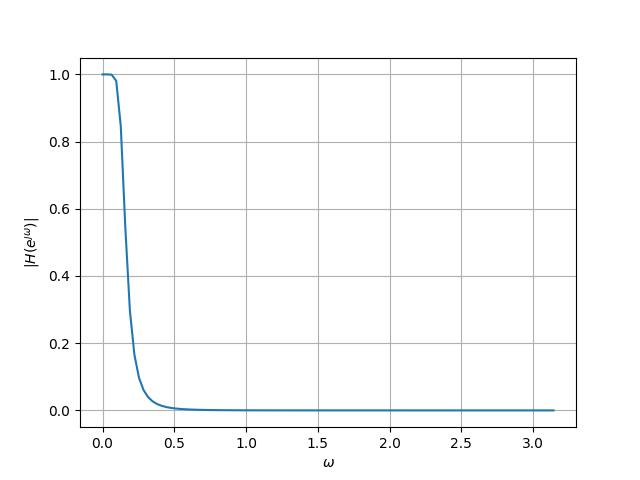
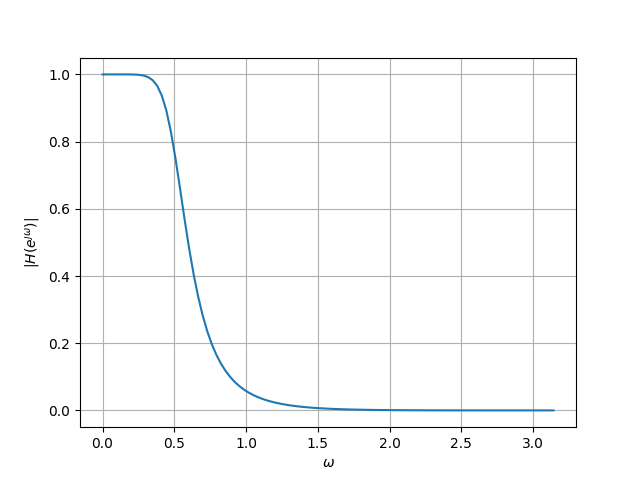
Add files via upload

diff --git a/audio_filtering/codes/Filter_response.py b/audio_filtering/codes/Filter_response.py
@@ -1,40 +1,39 @@
 import numpy as np
 import matplotlib.pyplot as plt
+from scipy import signal
+import soundfile as sf
 
-# Adjusted values of r(i), p(i), and k(i)
-r_values = [0.06029142-0.14682007j , 0.06029142+0.14682007j, -0.06029459+0.02518904j,
- -0.06029459-0.02518904j]
+#read .wav file 
+input_signal,fs = sf.read('audio.wav') 
 
-p_values = [0.88475217+0.0445749j,  0.88475217-0.0445749j , 0.94427798+0.11485352j,
- 0.94427798-0.11485352j]
+#sampling frequency 
+sampl_freq=fs
 
-k_values = [2.19006287e-05, 0, 0, 0]
+#order of the filter
+order=4
 
-# Time indices
-n_values = np.arange(31)  # n values up to 30
+#cutoff frquency 4kHz
+cutoff_freq=4000.0 
 
-# Compute h(n)
-hn_values = np.zeros_like(n_values, dtype=np.complex128)
-for n in n_values:
-    for i in range(len(r_values)):
-        hn_values[n] += r_values[i] * (p_values[i] ** n)
-    for j in range(len(k_values)):
-        if n - j >= 0:
-            hn_values[n] += k_values[j]
+#digital frequency
+Wn=2*cutoff_freq/sampl_freq  
 
-# Compute the frequency response using FFT
-N = len(hn_values)
-Hk_values = np.fft.fft(hn_values)
+# b and a are numerator and denominator polynomials respectively
+b, a = signal.butter(order, Wn, 'low') 
 
-# Frequency values
-freq = np.fft.fftfreq(N)
+#DTFT
+def H(z):
+  num = np.polyval(b,z**(-1))
+  den = np.polyval(a,z**(-1))
+  H = num/den
+  return H
+    
+#Input and Output
+omega = np.linspace(0,np.pi,100)
 
-# Plot
-plt.figure(figsize=(8, 6))
-plt.plot(freq, np.abs(Hk_values))
-plt.xlabel('Frequency')
-plt.ylabel('Magnitude')
-plt.title('Filter Frequency Response')
-plt.grid(True)
-plt.show()
-
+#subplots
+plt.plot(omega, abs(H(np.exp(1j*omega))))
+plt.xlabel('$\omega$')
+plt.ylabel('$|H(e^{\jmath\omega})| $')
+plt.grid()
+plt.savefig("Filter_Response")
